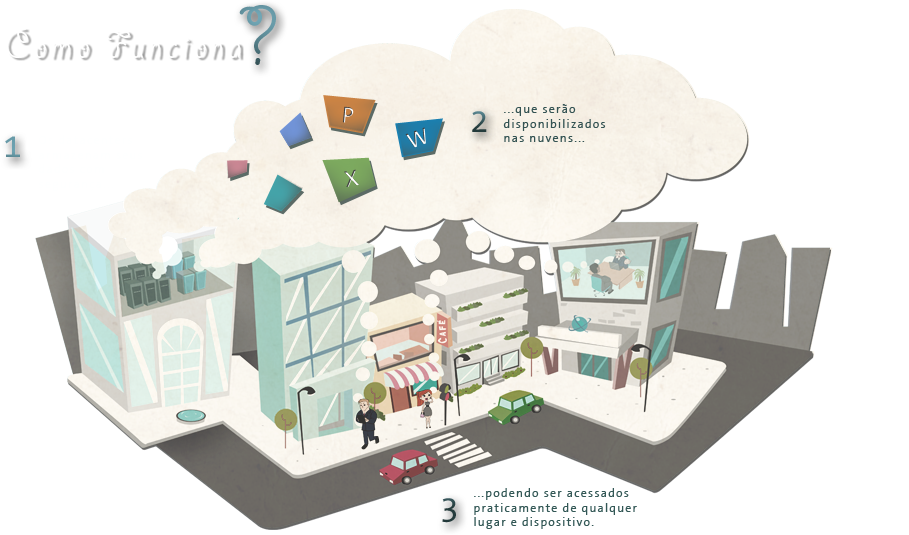
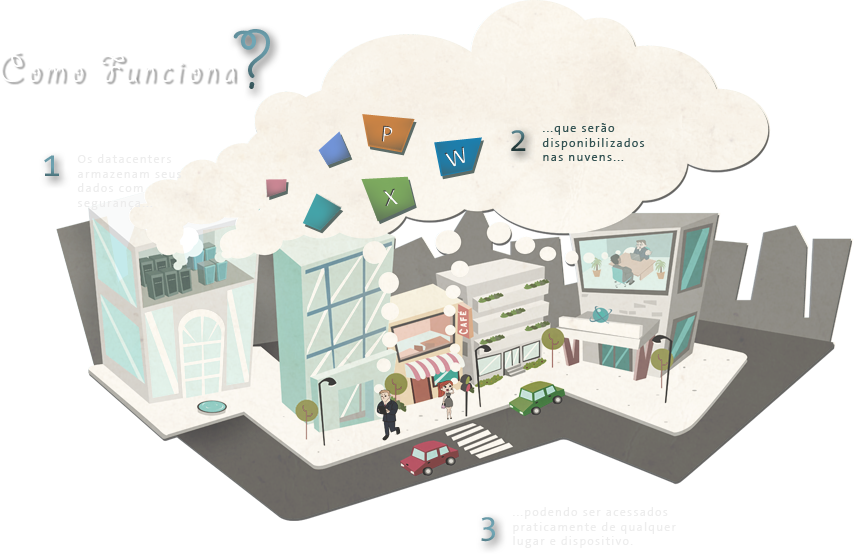
andre

diff --git a/public/stylesheets/dia.css b/public/stylesheets/dia.css
@@ -1,7 +1,86 @@
 body{
-	background-image:url('/images/bg-dia.jpg');
+	background-image:url('/images/bg-dia.jpg') !important;
+	}
+
+#oque-imagem{
+	position:absolute !important;
+	top:50px !important;
+	left:25px !important;
+	width:872px !important;
+	height:554px !important;
+	background-image:url(../images/img-oque-dia.png) !important;
+	background-position:left top !important;
+	background-repeat:no-repeat !important;
+	}
+
+#box-1 h3{
+	color:#495d76 !important;
+	}
+
+#box-1 p{
+	color:#656157 !important;
+	}
+
+#box-2 h3{
+	color:#495d76 !important;
+	}
+
+#box-2 p{
+	color:#656157 !important;
+	}
+
+#box-3 h3{
+	color:#495d76 !important;
+	}
+
+#box-3 p{
+	color:#656157 !important;
+	}
+
+#box-4 h3{
+	color:#495d76 !important;
+	}
+
+#box-4 p{
+	color:#656157 !important;
+	}
+
+#txt-empresa {
+	color:#656157 !important;
+	}
+
+#box-empresa1 p{
+	color:#656157 !important;
+	}
+
+#box-empresa3 p{
+	color:#656157 !important;
+	}
+
+#txt-servicos{
+	color:#656157 !important;;
+	}
+
+article b{
+	color:#656157 !important;;
+	}
+
+#office-box1{
+	color:#656157 !important;;
+	}
+
+#office-box1 p{
+	color:#656157 !important;;
+	}
+
+#txt-faq p{
+	color:#656157 !important;;
+	}
+
+#txt-item-faq p{
+	color:#656157 !important;;
 	}
 
 footer{
-	background-image:url('../images/bg-casas-dia.png');
+	background-image:url('../images/bg-casas-dia.png') !important;
 	}

diff --git a/public/stylesheets/oque.css b/public/stylesheets/oque.css
@@ -2,6 +2,11 @@
 	position:absolute;
 	top:50px;
 	left:25px;
+	width:872px;
+	height:554px;
+	background-image:url(../images/img-oque.png);
+	background-position:left top;
+	background-repeat:no-repeat;
 	}
 
 #oque-conteudo{
@@ -45,6 +50,7 @@
 #box-1 h3{
 	margin-left:231px;
 	margin-top:-160px;
+	color:#9acbbf;
 	}
 
 #box-1 p{
@@ -61,6 +67,7 @@
 #box-2 h3{
 	margin-left:231px;
 	margin-top:-160px;
+	color:#9acbbf;
 	}
 
 #box-2 p{
@@ -78,6 +85,7 @@
 #box-3 h3{
 	margin-left:231px;
 	margin-top:-160px;
+	color:#9acbbf;
 	}
 
 #box-3 p{
@@ -94,6 +102,7 @@
 #box-4 h3{
 	margin-left:231px;
 	margin-top:-160px;
+	color:#9acbbf;
 	}
 
 #box-4 p{
@@ -122,5 +131,5 @@ footer{
 	bottom: -1px;
 	width:100%;
 	left:0px;
-	top:1329px;
+	top:1329px !important;
 	}

diff --git a/public/stylesheets/style.css b/public/stylesheets/style.css
@@ -130,6 +130,23 @@ article{
 	z-index:100;
 	top:180px;
 	left:182px;
+	width:596px;
+	height:344px;
+	background-image:url(../images/bg-video.png);
+	background-repeat:no-repeat;
+	background-position:center top;
+	}
+
+video{
+	border-radius: 40px; -webkit-border-radius: 40px; -moz-border-radius: 40px;
+	}
+
+#flash_fallback_1{
+	border-radius: 40px; -webkit-border-radius: 40px; -moz-border-radius: 40px;
+	}
+
+source{
+	border-radius: 40px; -webkit-border-radius: 40px; -moz-border-radius: 40px;
 	}
 
 #tit-naoentendeu{
@@ -155,6 +172,7 @@ footer{
 	width:100%;
 	left:0px;
 	z-index:1;
+	top:700px;
 	}
 
 #c_footer{

diff --git a/public/stylesheets/empresa.css b/public/stylesheets/empresa.css
@@ -33,7 +33,7 @@ article{
 	position:absolute;
 	font:Tahoma, Geneva, sans-serif;
 	font-size:14px;
-	color:#1e4552;
+	color:#fff;
 	width:530px;
 	top:50px;
 	left:20px;
@@ -87,6 +87,7 @@ article{
 	width:530px;
 	top:60px;
 	left:20px;
+	color:#fff;
 	}
 
 aside{
@@ -111,5 +112,5 @@ footer{
 	bottom: -1px;
 	width:100%;
 	left:0px;
-	top:1150px;
+	top:1150px  !important;
 	}

diff --git a/public/stylesheets/servicos.css b/public/stylesheets/servicos.css
@@ -18,7 +18,7 @@ article{
 
 article b{
 	font-weight:bold;
-	color:#152123;
+	color:#fff;
 	}
 
 #box-servicos1{
@@ -138,5 +138,5 @@ footer{
 	bottom: -1px;
 	width:100%;
 	left:0px;
-	top:1329px;
+	top:1329px  !important;
 	}

diff --git a/public/stylesheets/office367.css b/public/stylesheets/office367.css
@@ -186,7 +186,7 @@ footer{
 	width:100%;
 	left:0px;
 	z-index:1;
-	top:1400px;
+	top:1400px  !important;
 	}
 
 

diff --git a/public/stylesheets/trabalhe.css b/public/stylesheets/trabalhe.css
@@ -137,5 +137,5 @@ footer{
 	bottom: -1px;
 	width:100%;
 	left:0px;
-	top:1000px;
+	top:1000px  !important;
 	}

diff --git a/public/stylesheets/contato.css b/public/stylesheets/contato.css
@@ -76,5 +76,5 @@ footer{
 	bottom: -1px;
 	width:100%;
 	left:0px;
-	top:1000px;
+	top:1000px  !important;
 	}

diff --git a/public/stylesheets/faq.css b/public/stylesheets/faq.css
@@ -61,5 +61,5 @@ footer{
 	bottom: -1px;
 	width:100%;
 	left:0px;
-	top:1900px;
+	top:1900px  !important;
 	}

diff --git a/public/stylesheets/termos.css b/public/stylesheets/termos.css
@@ -27,5 +27,5 @@ footer{
 	bottom: -1px;
 	width:100%;
 	left:0px;
-	top:800px;
+	top:800px !important;
 	}
